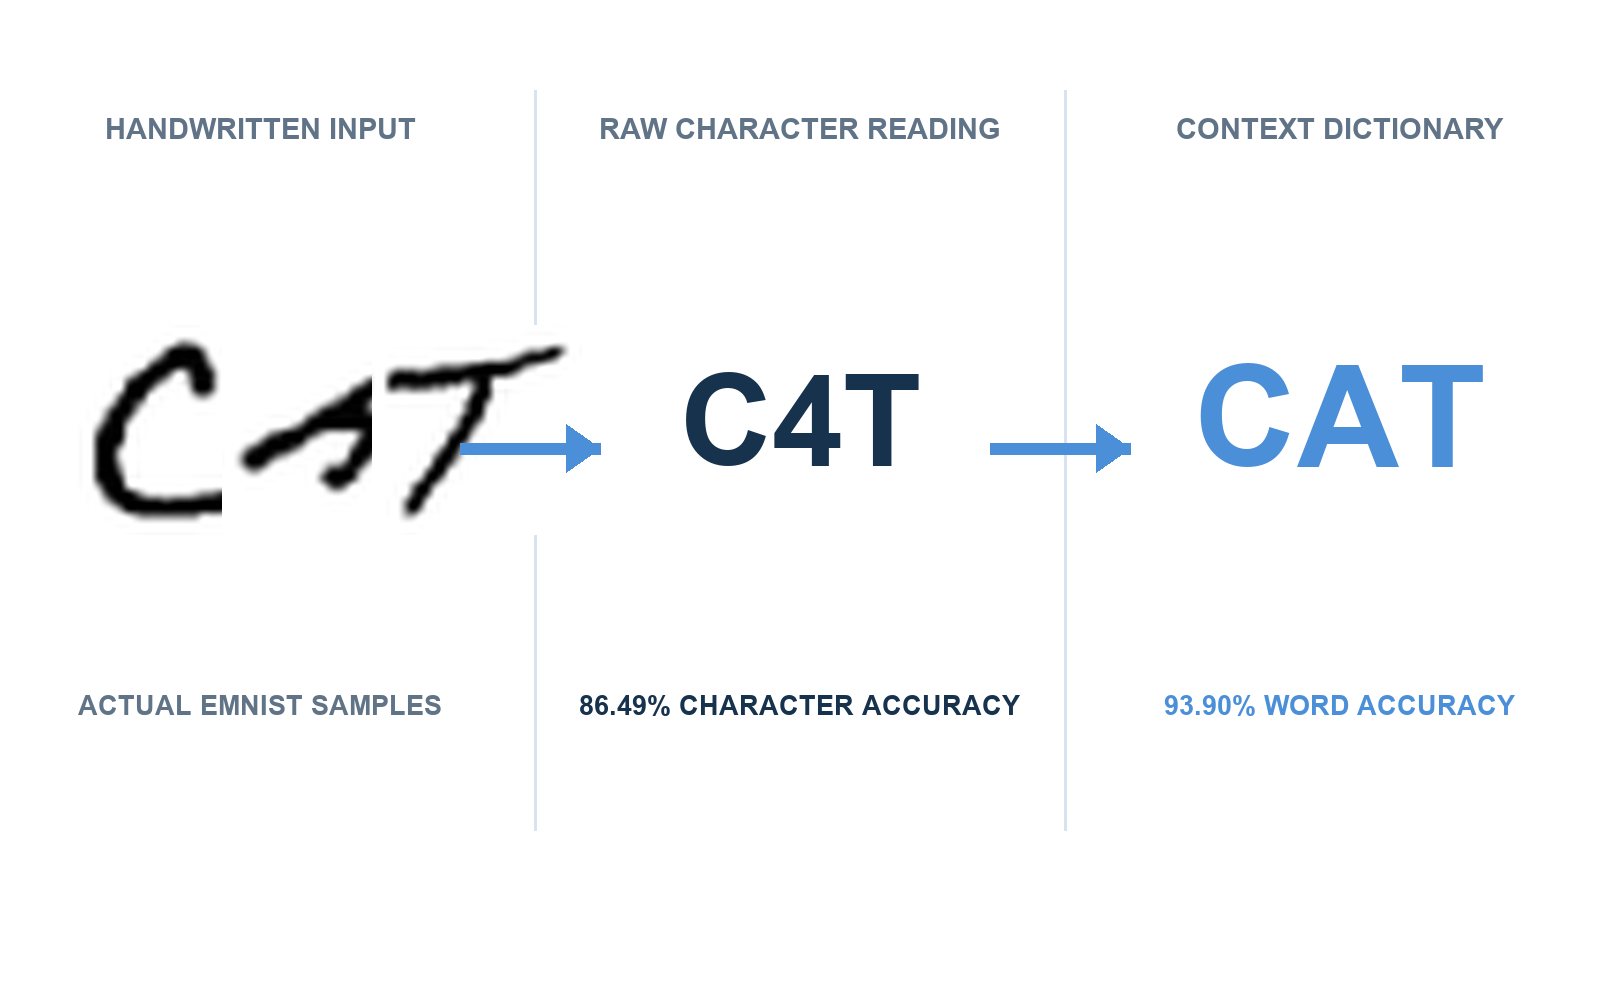
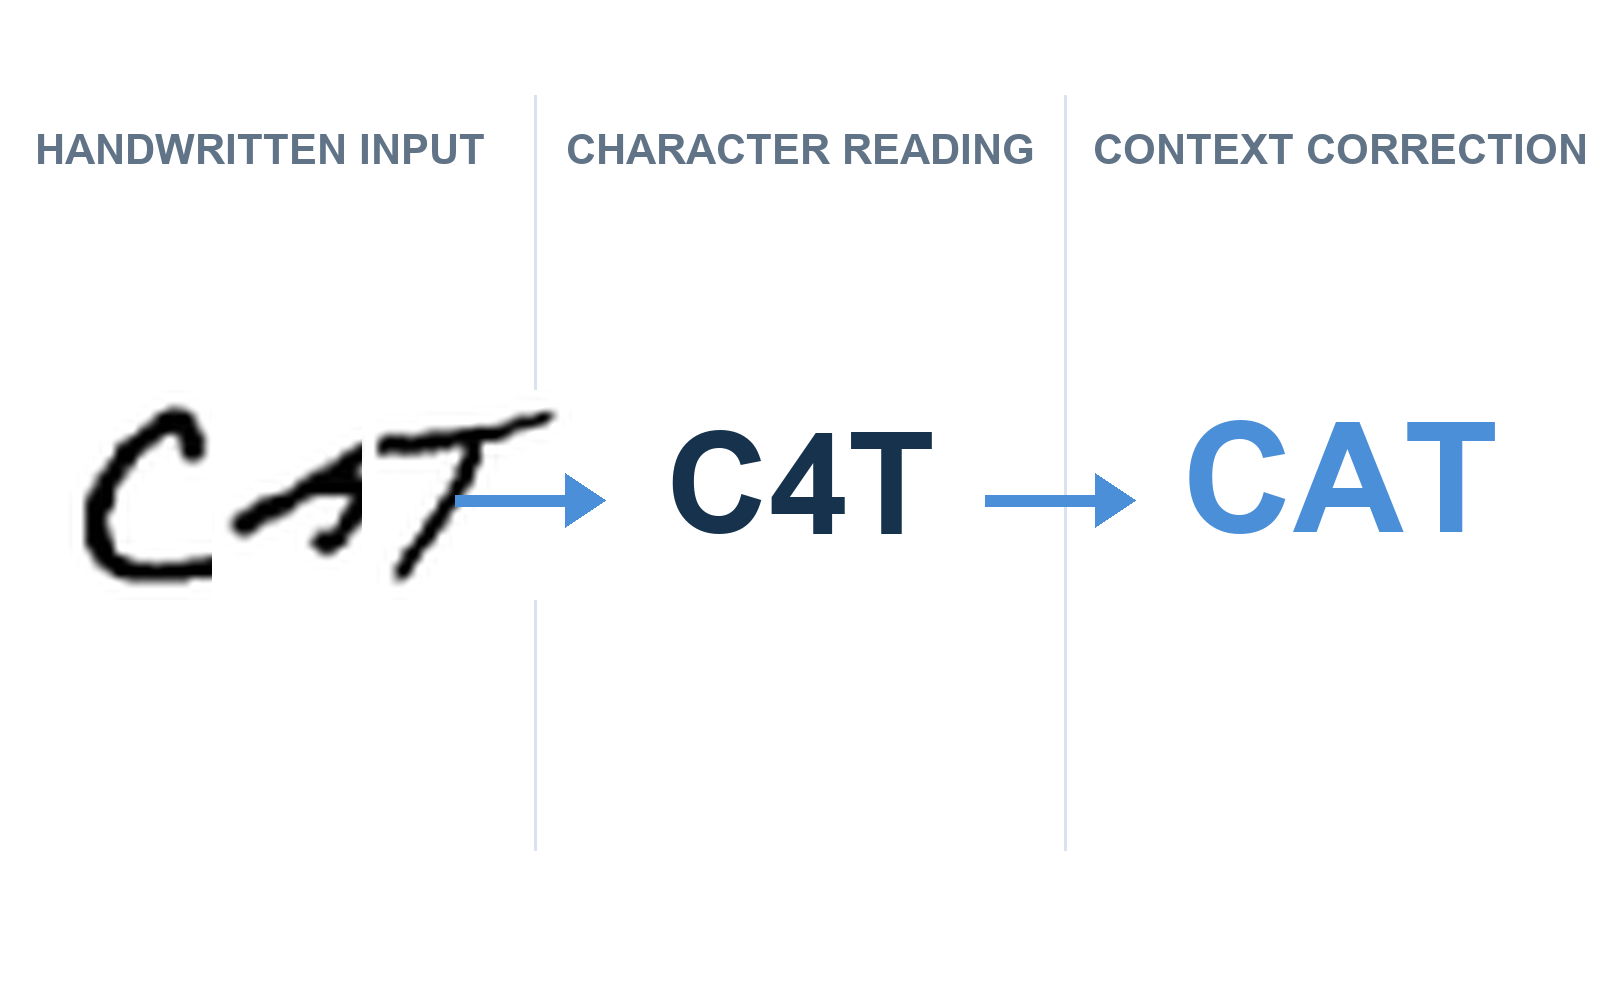
Fix OCR project illustration

diff --git a/index.html b/index.html
@@ -70,7 +70,7 @@
               aria-label="View the Optical Character Recognition project on GitHub"
             >
               <img
-                src="assets/projects/ocr-preview.png"
+                src="assets/projects/ocr-preview.png?v=4"
                 alt="Actual EMNIST handwriting samples spelling CAT, followed by the raw OCR result C4T and the context-corrected result CAT"
                 width="1600"
                 height="1000"
